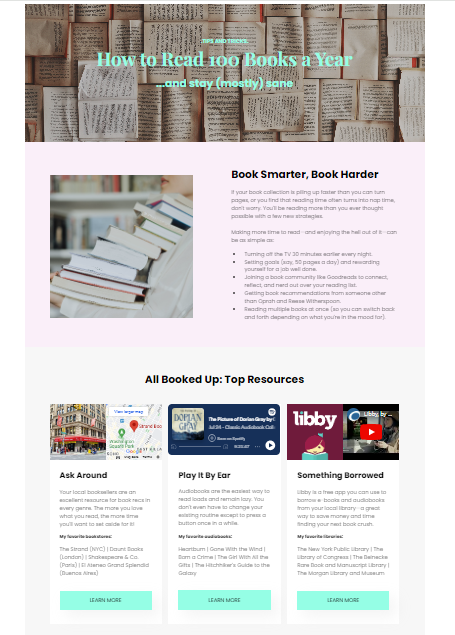
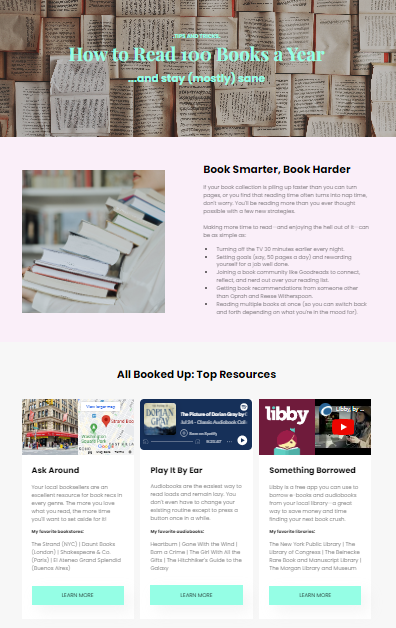
Updated images

diff --git a/src/style.css b/src/style.css
@@ -348,6 +348,7 @@ MEDIA QUERY: for big screens
 
   .projects-page-container {
     display: grid;
+    gap: 20px;
     grid-template-columns: repeat(4, 1fr);
     grid-template-rows: repeat(5, 1fr);
     grid-template-areas:
@@ -356,14 +357,23 @@ MEDIA QUERY: for big screens
       "a d e e"
       "f d g g"
       "h h h i";
-    gap: 20px;
     margin: 30px auto;
     max-width: 1000px;
+  }
+
+  .projects-page-container img {
+    height: 100%;
+    width: 100%;
+    object-fit: cover;
   }
 
   .project-one-container {
     grid-area: a;
   }
+
+  /* .project-one {
+    border-radius: 40px 0 40px 40px;
+  } */
 
   .project-two-container {
     grid-area: b;
@@ -395,12 +405,6 @@ MEDIA QUERY: for big screens
 
   .project-nine-container {
     grid-area: i;
-  }
-
-  .projects-page-container img {
-    height: 100%;
-    width: 100%;
-    /* object-fit: cover; */
   }
 }
 

diff --git a/projects.html b/projects.html
@@ -101,7 +101,7 @@
       </div>
       <div class="project-three-container">
         <img
-          src="/src/images/word shark dictionary app - xl.png"
+          src="/src/images/word shark dictionary app - reg.png"
           alt="Word Shark dictionary"
           class="project-three"
         />
